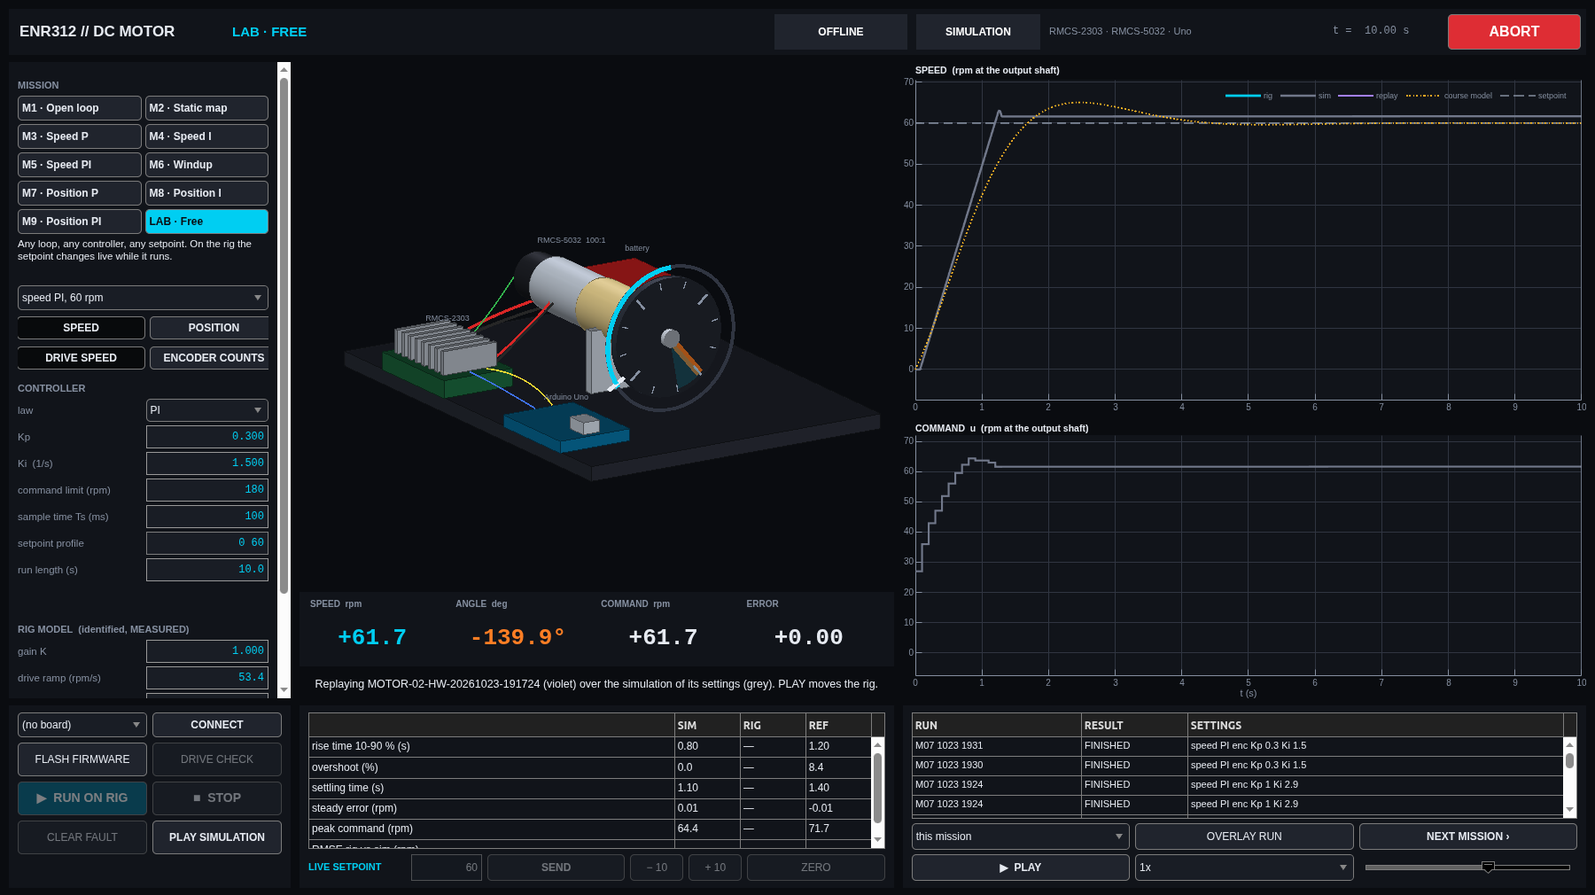
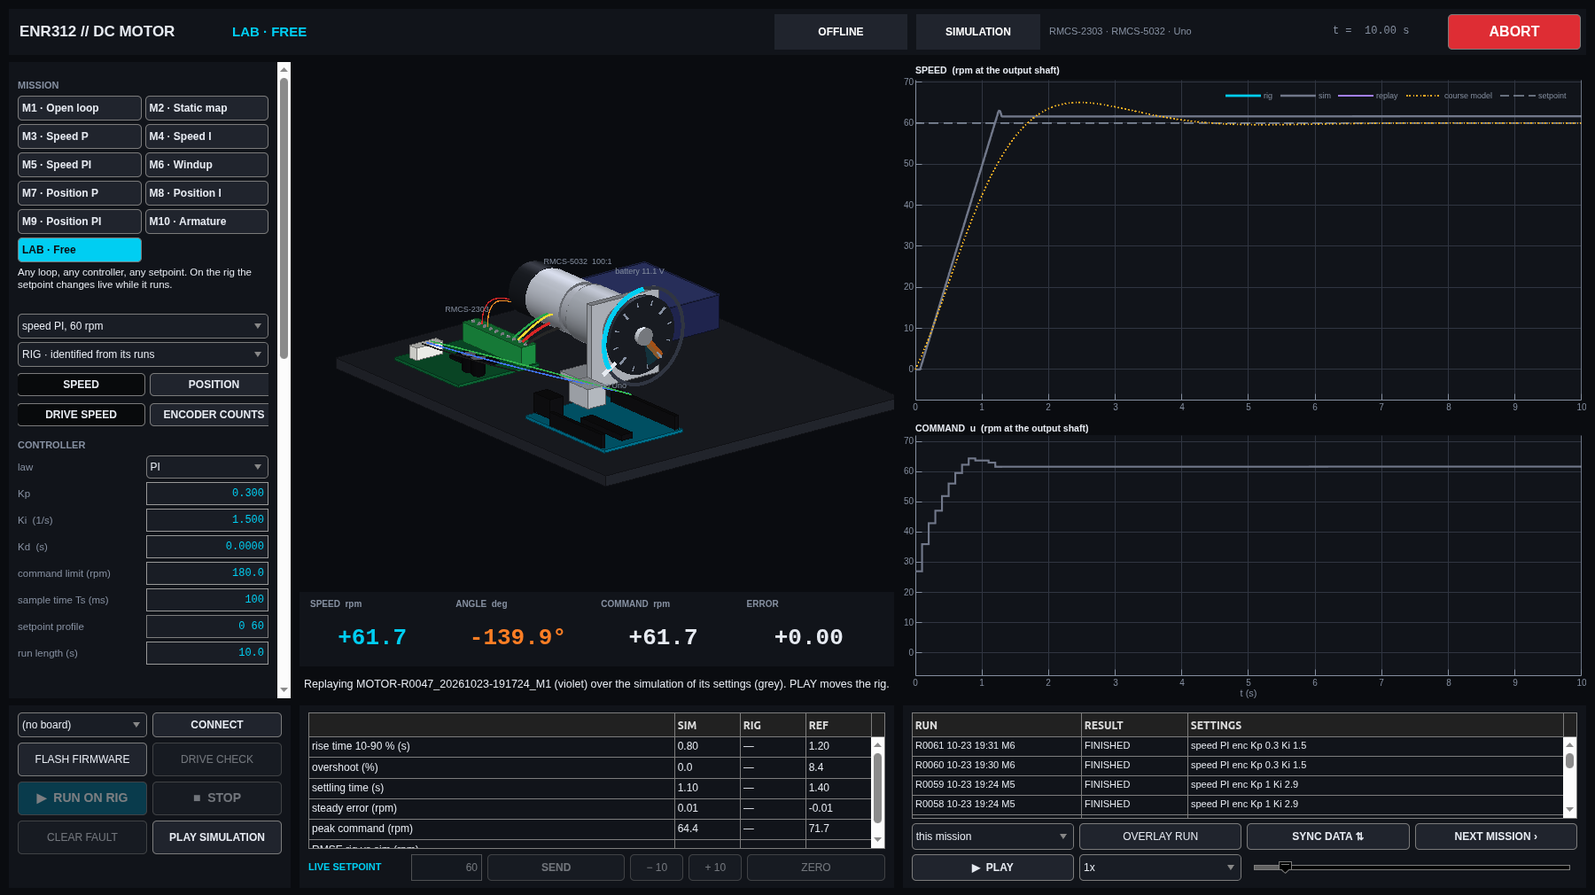
docs: three-rig front page, temperature and water guides, live-session checklist
The README shows one picture per apparatus and the motor's rig findings; the
guides describe each screen, physics panel and mission; the checklist walks
through a live session at each bench, from the doctor to SYNC DATA. The motor
session report is regenerated with the register's run ids; screenshots are
retaken from the current apps.

diff --git a/README.md b/README.md
@@ -1,134 +1,63 @@
-# ENR312 control lab: a DC motor under real feedback
+# ENR312 control lab: three rigs under real feedback
 
 [![CI](https://github.com/Samarth030312/enr312-lab/actions/workflows/ci.yml/badge.svg)](https://github.com/Samarth030312/enr312-lab/actions/workflows/ci.yml)
 ![Board](https://img.shields.io/badge/board-Arduino%20Uno-00979D)
-![Drive](https://img.shields.io/badge/drive-RMCS--2303%20(Modbus)-555)
 ![MATLAB](https://img.shields.io/badge/MATLAB-R2023b%2B%2C%20base-orange)
 ![Platforms](https://img.shields.io/badge/runs%20on-Windows%20%C2%B7%20macOS%20%C2%B7%20Linux-blue)
 ![License](https://img.shields.io/badge/license-MIT-green)
 
-A geared DC motor sits behind a servo drive that already runs its own speed loop. An Arduino
-talks to that drive ten times a second over a slow serial bus and closes a second loop around
-it: open loop, P, I and PI, on speed and on angle. This repository asks what each of those
-controllers really does on that rig, and answers with the rig.
+A DC motor behind a servo drive, a bulb heating a box, and a tank filled by a pump. Each
+has an Arduino closing the loop and a MATLAB mission control that simulates it from its
+own physics, runs it on the rig, records every run and replays it.
 
-It contains:
+| DC motor · `enr312_motor` | Temperature · `enr312_temp` | Water level · `enr312_water` |
+|:---:|:---:|:---:|
+| [![motor](docs/guide/img/m5_speed_pi_rig.png)](docs/guide/README.md) | [![temperature](docs/guide/img/t8_saturation.png)](docs/guide/TEMPERATURE.md) | [![water](docs/guide/img/w5_valve_pi.png)](docs/guide/WATER.md) |
+| A rig run (violet) over the identified model's prediction (grey): the handout's PI design overshoots 29 %, the model said 26 % | The bulb limited to 40 %: a plain integrator winds up and overshoots 5 °C | The outlet valve opens at 600 s: PI holds 50 % |
 
-- the Arduino firmware, tested on the PC against an emulated drive before it touched the motor;
-- a model of the rig **identified from its own steps**, not from a datasheet;
-- **`enr312_motor`**, a MATLAB mission control where every experiment of the ENR312 MOTOR
-  handout is simulated, run on the rig, recorded and replayed in one window;
-- every rig run, raw, with the reports that analyse them.
+## Start
 
-<p align="center">
-  <img src="docs/guide/img/m5_speed_pi_rig.png" width="900"
-       alt="The enr312_motor app on mission M5, speed PI: a 3-D view of the motor rig in the centre, the measured speed of a rig run in violet over the simulation in grey on the right, and a table comparing simulation, rig and the course model.">
-  <br><sub>The handout's PI design (Kp 1.0, Ki 2.9) on the rig, in violet, over the identified
-  model's prediction of the same run, in grey. The rig overshoots 29 %, the model said 26 %,
-  the textbook 5 %.</sub>
-</p>
-
-## What we found
-
-- **The actuator is a near-perfect speed source.** The drive closes its own loop, so the
-  steady speed follows the command with slope 0.997 and **no dead zone** down to 2 rpm, in
-  both directions (S3-3).
-- **A step is a ramp, not a lag.** The drive limits acceleration to 53 rpm/s; a model with
-  gain 1, that ramp and the 70 ms Modbus latency, fitted on four open-loop runs, predicts
-  closed-loop runs it never saw within a few rpm (S3-4, S3-7).
-- **The textbook PI design limit-cycles.** Designed for ζ 0.7 without the delay, it overshoots
-  29 % instead of 5 % and then oscillates ±6.7 rpm; the identified model predicts both (S3-10).
-- **Anti-windup is worth 6 seconds.** With the command saturated for 6 s, the firmware's
-  clamping brings the speed back to the new setpoint in 0.5 s; a plain integrator would not be
-  back before the run ends (S3-12).
-- **P alone positions to two encoder counts.** 10° moves end within 0.11-0.17° for Kp 0.1 to
-  1.0: the drive leaves no dead zone to stop short in (S3-5).
-- **The guard works, and found something.** The firmware's runaway guard cut motor power in
-  4 of 38 runs; three of them share a pattern (a full-speed reverse start), written down with
-  the evidence and a proposed fix in the [session report](results/reports/dc_motor/2026-10-23/REPORT.md#safety-events).
-
-## Start here
-
-| I want to … | Go to |
-|---|---|
-| set it up on my computer (Windows, macOS, Linux) | [install: one line per system](install/README.md) |
-| learn the app and do the experiments | [the mission-control guide](docs/guide/README.md) |
-| answer the ENR312 MOTOR questions | [every task and question, mapped to its run](docs/experiments/dc_motor/COURSE_QUESTIONS.md) |
-| see the rig results | [session 2026-10-23](results/reports/dc_motor/2026-10-23/REPORT.md) · [session 2026-10-11](docs/experiments/dc_motor/HW-SESSION-20261011-1314_FINDINGS.md) |
-| wire the rig | [DC motor wiring](docs/wiring/DC_MOTOR_WIRING.md) and the [safety checklist](docs/safety/EXPERIMENT_CHECKLIST.md) |
-| understand the drive and the motor | [hardware reference](docs/knowledge-base/HARDWARE_REFERENCE.md) · [control theory](docs/knowledge-base/CONTROL_THEORY.md) |
-| see how the software fits | [MATLAB architecture](docs/architecture/MATLAB_ARCHITECTURE.md) · [serial protocol](docs/architecture/SERIAL_PROTOCOL.md) |
-| see the sibling project | [rotary inverted pendulum](https://github.com/Samarth030312/enr312-rotary-inverted-pendulum) |
+New computer: one line from [install/](install/README.md) (Windows cmd or PowerShell, macOS, Linux).
+Then, in MATLAB, from the repository's `matlab` folder:
 
 ```matlab
-% MATLAB R2023b or newer, from the repository's matlab folder
-enr312_start        % checks the computer, installs the Arduino toolchain once, opens enr312_motor
-enr312_doctor       % what is wrong with this computer, and how to fix it
+enr312_start               % DC motor          enr312_start temperature   enr312_start water
+enr312_doctor              % what is wrong with this computer, and the fix
 ```
 
-New computer: one line in a terminal, from [install/](install/README.md):
+Each app runs without hardware. Plug in the Uno and it offers to flash the firmware and connect.
 
-```bash
-curl -fsSL https://raw.githubusercontent.com/Samarth030312/enr312-lab/main/install/macos/install.sh | bash     # macOS
-curl -fsSL https://raw.githubusercontent.com/Samarth030312/enr312-lab/main/install/linux/install.sh | bash     # Linux
-```
-```bat
-powershell -NoProfile -Command "[Net.ServicePointManager]::SecurityProtocol='Tls12'; irm https://raw.githubusercontent.com/Samarth030312/enr312-lab/main/install/windows/install.ps1 | iex"
-```
+## What the rigs showed
 
-## How it fits together
+DC motor, 61 recorded runs ([report 2026-10-23](results/reports/dc_motor/2026-10-23/REPORT.md)):
 
-```mermaid
-flowchart LR
-    subgraph PC["PC: MATLAB"]
-        APP["enr312_motor<br/>mission control"]
-        SIM["identified rig model<br/>+ the Arduino's loop"]
-    end
-    subgraph RIG["rig"]
-        UNO["Arduino Uno<br/>P / I / PI at 10 Hz"]
-        DRV["RMCS-2303<br/>own speed loop"]
-        MOT["RMCS-5032<br/>100:1, encoder"]
-    end
-    EMU["firmware on the PC<br/>+ emulated drive"]
-    APP --> SIM
-    APP <-->|"USB serial, protocol v1"| UNO
-    APP <-->|"the same protocol (tests)"| EMU
-    UNO <-->|"Modbus ASCII, 9600 baud"| DRV
-    DRV --> MOT
-    MOT -->|"encoder"| DRV
-    APP --> DATA["data/raw<br/>every run, read-only"]
-```
+- The drive makes the motor a near-perfect speed source: slope 0.997, no dead zone down to 2 rpm.
+- A step is the drive's 53 rpm/s ramp, not a lag. A model with that ramp and the 70 ms Modbus
+  latency predicts closed-loop runs it never saw within a few rpm.
+- The textbook ζ 0.7 PI design overshoots 29 % and limit-cycles ±6.7 rpm; clamping anti-windup
+  recovers in 0.5 s; P alone positions to two encoder counts.
 
-The controller law exists once (`pidStep`): the firmware runs it, the simulation runs it, and
-the firmware also runs on the PC against an emulated drive, behind the real serial protocol,
-for the end-to-end test.
+Temperature and water level: firmware and apps tested end to end against emulated hardware;
+first rig sessions to come. Their physics panels take your bulb, box, tank and pump values.
 
-## Status
+## Where things are
 
-- **DC motor:** the course experiments S3-2 to S3-12 ran on the rig on 2026-10-23
-  (38 runs) and are analysed; open: the runaway stop at the start of one run pair.
-- **Temperature** (DHT11, bulb, SSR) and **water level** (HC-SR04, pump, relay): firmware tested
-  on the PC, simulations and course answers done; not yet on hardware.
-- **Pneumatics:** Festo FluidSIM, [plan](pneumatic/README.md).
-- **Tested on:** the rig with Ubuntu 22.04. Windows 10/11 and macOS (Intel and Apple silicon):
-  the installer, the firmware build and the MATLAB tests run in [CI](.github/workflows/ci.yml);
-  a rig session from those systems has not been recorded yet.
-
-## Repository layout
+| | |
+|---|---|
+| guides | [motor](docs/guide/README.md) · [temperature](docs/guide/TEMPERATURE.md) · [water](docs/guide/WATER.md) · [live session checklist](docs/LIVE_SESSION_CHECKLIST.md) |
+| course questions | [MOTOR](docs/experiments/dc_motor/COURSE_QUESTIONS.md) · [TEMP](docs/experiments/temperature/COURSE_QUESTIONS.md) · [WATER](docs/experiments/water_level/COURSE_QUESTIONS.md) |
+| every rig run | [`data/RUN_REGISTER.csv`](data/RUN_REGISTER.csv): `MOTOR-R0061_20261023-193103_M6` = apparatus, run number, time, mission |
+| wiring and safety | [motor](docs/wiring/DC_MOTOR_WIRING.md) · [temperature](docs/wiring/TEMPERATURE_WIRING.md) · [water](docs/wiring/WATER_LEVEL_WIRING.md) · [checklist](docs/safety/EXPERIMENT_CHECKLIST.md) |
+| software | [architecture](docs/architecture/MATLAB_ARCHITECTURE.md) · [serial protocol](docs/architecture/SERIAL_PROTOCOL.md) · [changelog](CHANGELOG.md) |
+| sibling project | [rotary inverted pendulum](https://github.com/Samarth030312/enr312-rotary-inverted-pendulum) |
 
 ```
-install/        one-line set-up for Windows, macOS, Linux
-dc_motor/       motor firmware and its PC tests        temperature/, water_level/: the same for those rigs
-matlab/         enr312_start, enr312_doctor, the apps, the models, analysis scripts, tests
-data/           every rig run, raw and read-only, with metadata
-results/        session reports, figures, simulation evidence
-docs/           guide, course answers, wiring, safety, hardware reference, architecture
-scripts/        build and validation helpers (shell), report tools
+install/   one-line set-up        dc_motor/ temperature/ water_level/   firmware and its PC tests
+matlab/    apps, models, tests    data/    every rig run, read-only     results/   reports, figures
 ```
 
 ## License
 
-MIT for the original work ([`LICENSE`](LICENSE)). Arduino libraries are installed from their
-sources at pinned versions, not redistributed ([`THIRD_PARTY.md`](THIRD_PARTY.md)). Course
-handouts and the drive and motor manuals are cited, not redistributed
-([`SOURCE_REGISTER.csv`](docs/knowledge-base/SOURCE_REGISTER.csv)).
+MIT ([`LICENSE`](LICENSE)). Arduino libraries are installed at pinned versions, not
+redistributed ([`THIRD_PARTY.md`](THIRD_PARTY.md)). Course handouts and manuals are cited, not
+redistributed.

diff --git a/docs/guide/TEMPERATURE.md b/docs/guide/TEMPERATURE.md
@@ -1,0 +1,57 @@
+# Temperature mission control: `enr312_temp`
+
+```matlab
+enr312_start temperature        % from the repository's matlab folder
+```
+
+![enr312_temp](img/t2_onoff.png)
+
+## The screen
+
+The same layout as the motor app. **Left:** the mission, its presets, the controller, a
+disturbance, and the **physics panel** (bulb · enclosure · sensor). **Centre:** the rig in 3-D:
+the bulb glows with the power it receives, the heated zone's outline warms from blue to red,
+the SSR's LED shows its input, and the LCD shows the reading the Arduino displays. **Right:**
+the temperature the DHT11 reports (grey: simulation, cyan: rig, violet: replay; dotted: the true
+zone temperature, which the sensor sees late and in 1 °C steps) and the heater power.
+**Bottom:** rig controls, the SIM / RIG / REF table, recorded runs.
+
+## The physics panel
+
+Type what is on your bench and the model follows:
+
+| You give | The model uses |
+|---|---|
+| bulb rating, its rated voltage, the supply voltage, heat fraction η | electrical power P = W (V/V_rated)^1.6 (a filament's resistance rises with temperature); heat into the zone η P |
+| zone length, width, height, wall loss U | loss conductance G = U·A, R_th = 1/G |
+| structure mass and its specific heat | heat capacity C = air + structure |
+| room temperature, bulb-to-sensor delay θ, sensor lag | the dead time and the DHT11's own lag |
+
+Derived and shown live: K (the rise at full power), τ = R_th·C, θ, the full-power temperature and
+the transfer function T(s)/u(s). Values marked ASSUMED in the code are placeholders until the
+bench is measured; mission T1 measures K, τ and θ.
+
+## Missions
+
+| | Question |
+|---|---|
+| T1 · Heating curve | How fast and how far does the zone heat with the bulb fully on, and does it cool at the same rate? |
+| T2 · On-off | What does the temperature do at 35, 45 and 55 °C, and how often does the bulb switch? |
+| T3 · Hysteresis | What happens to the band and to the switching as the hysteresis grows? |
+| T4 · Moving average | How do N = 10 and N = 500 differ, given that the DHT11 updates once a second? |
+| T5 · P control | What do Kp = 1, 2, 50, 100, 500 do to the error and to the bulb? |
+| T6 · PI and PID | What do the integral and derivative terms add? |
+| T7 · Disturbance | The room cools by 5 °C at 600 s: who recovers? |
+| T8 · Saturation | With the heater limited to 40 %, what does the integrator do? |
+| LAB · Free | Anything; on the rig the setpoint changes live. |
+
+The table scores SIM, RIG and REF (theory from the physics: K, τ, θ, P's offset, on-off ripple)
+with the same definitions. **OPEN IN SIMULINK** builds `enr312_temperature.slx` with the
+current settings. On the rig, the firmware runs ON-OFF, HYST, MA, P, TPROP, STEP and PI; PID
+and open loop are simulation only.
+
+## On the rig
+
+Wiring and mains safety first: [TEMPERATURE_WIRING.md](../wiring/TEMPERATURE_WIRING.md). Set the
+LCD type (parallel or I2C) under CONTROLLER before FLASH FIRMWARE. The firmware switches the
+bulb off if MATLAB is silent for 3 s and latches it off at its 70 °C cut-off.

diff --git a/docs/guide/WATER.md b/docs/guide/WATER.md
@@ -1,0 +1,52 @@
+# Water-level mission control: `enr312_water`
+
+```matlab
+enr312_start water              % from the repository's matlab folder
+```
+
+![enr312_water](img/w2_onoff.png)
+
+## The screen
+
+The same layout as the motor app. **Centre:** the tank in 3-D: the water column follows the
+level, the inflow and outflow streams thicken with the flow, the HC-SR04's ping reaches the
+surface, the outlet valve's handle turns with its opening, and Lmin (green), Lmax (red) and the
+setpoint (white) are marked on the tank. **Right:** the level the sensor reports (dotted: the
+true level) and the pump command. The live numbers include the net flow into the tank.
+
+## The physics panel
+
+| You give | The model uses |
+|---|---|
+| tank length, width, height | A dh/dt = q_in − q_out, 100 % = the tank height |
+| outlet bore, Cd, valve opening | q_out = k √h, k = Cd · a · √(2g) (Torricelli: the reason the tank is nonlinear) |
+| pump flow at zero head, shut-off head, lift, dead zone, delay | q_in from the pump command, falling with the head |
+| sensor height, air temperature | the HC-SR04's distance → level (speed of sound with temperature) |
+
+Derived and shown live: the level a full pump can hold, the linearised gain and time constant
+at half height, the time to fill and the volume. **Outflow** can be a gravity outlet or a
+constant drain (inspect your rig); the **firmware guards** (overflow above 92 %, dry run) can be
+switched off in simulation to see what they prevent.
+
+## Missions
+
+| | Question |
+|---|---|
+| W1 · Filling | Where does the level stop for a fixed pump command, and why there? |
+| W2 · On-off | How long are the fill and drain times, how often does the pump start, and what if the band is halved? |
+| W3 · P control | Why does P leave an offset? |
+| W4 · PI control | How does PI remove it? |
+| W5 · Valve disturbance | The outlet opens to 130 % at 600 s: who holds the level? |
+| W6 · Limits | A setpoint near the rim, an overflow, a pump too small. |
+| W7 · Windup | The pump saturates on the way to 85 %: clamping against a plain integrator. |
+| LAB · Free | Anything; on the rig the setpoint changes live (P / PI). |
+
+**OPEN IN SIMULINK** builds `enr312_water_level.slx` (Relay block for on-off, PI, open loop,
+valve step) with the current settings. On the rig: ON-OFF through the relay, P and PI with the
+PWM (MOSFET) wiring; the app sends the tank geometry and air temperature ($CAL) before each run.
+
+## On the rig
+
+Wiring: [WATER_LEVEL_WIRING.md](../wiring/WATER_LEVEL_WIRING.md). Measure the tank and the sensor
+height first and type them into the physics panel: they set both the model and the firmware's
+level scale.

diff --git a/CHANGELOG.md b/CHANGELOG.md
@@ -1,5 +1,28 @@
 # Changelog
 
+## 2026-10-24: all three rigs, physics from the real parts, one run register
+
+* **Temperature (`enr312_temp`) and water level (`enr312_water`)** mission controls, on a shared
+  engine (`enr312.ui.missionControl`): missions for the TEMP and WATER handouts and Assignment 3,
+  a 3-D scene each (glowing bulb, DHT11, SSR, LCD; tank with water column, pump, flows, HC-SR04,
+  valve), SIM / RIG / REF tables with theory from the physics, OPEN IN SIMULINK, rig runs saved
+  and registered, end-to-end tests against real-time firmware emulators.
+* **Physics from what is on the bench:** `enr312.motor.physics` (datasheet → R, Kt, b, τe, τm,
+  ω(s)/V(s); free speed 168 rpm at 11.2 V, as measured), `enr312.temperature.physics` (bulb W and V,
+  box, wall loss, sensor → K, τ, θ), `enr312.level.physics` (tank, outlet bore and Cd, valve, pump
+  curve → Torricelli k, steady levels, linearised K, τ).
+* **DC motor:** the 3-D rig to the RMCS-5032 drawing, the RMCS-2303 board and the Uno outline;
+  PLANT choice (identified rig, drive physics, bare armature), PID, load-torque step, inertia
+  factor, armature current, battery runtime, mission M10.
+* **Simulation:** temperature PID, open loop, power limit with or without anti-windup, ambient
+  step; water open loop, pump curve, spill, guards switchable; Simulink models for both extended
+  to match (temperature PI/PID, saturation, ambient step; water open loop).
+* **Run register:** every rig run of any apparatus is `<APP>-R<nnnn>_<time>_<mission>` in
+  `data/RUN_REGISTER.csv`, with rig, firmware, port, settings and result; stopped and aborted runs
+  are kept; the 61 motor runs were renamed (old ids still resolve). **SYNC DATA** pushes new runs.
+* `enr312.ident.fitThermal`: K, τ, θ from heating and cooling together.
+* Fix: frames of a previous run or idle frames arriving after RUN no longer end a new run.
+
 ## 2026-10-23: mission control, every operating system, the course on the rig
 
 **DC-motor mission control (`enr312_motor`)** replaces MotorControlApp.

diff --git a/docs/LIVE_SESSION_CHECKLIST.md b/docs/LIVE_SESSION_CHECKLIST.md
@@ -1,0 +1,32 @@
+# Live session checklist (all three rigs)
+
+## Before the session (any computer)
+
+1. `git pull` (or the install line again), then in MATLAB: `enr312_doctor`. Every FAIL has its fix.
+2. `enr312_doctor fix` once per computer: installs the Arduino toolchain (about 60 MB).
+3. Open each app once without hardware (`enr312_start`, `enr312_start temperature`,
+   `enr312_start water`) and press PLAY SIMULATION on one mission.
+
+## At each bench
+
+| Step | DC motor | Temperature | Water level |
+|---|---|---|---|
+| Safety | battery off while wiring; shaft free | **mains unplugged while wiring**, enclosure closed | tank on a tray, electronics above the water line |
+| Wiring | [motor](wiring/DC_MOTOR_WIRING.md) | [temperature](wiring/TEMPERATURE_WIRING.md) | [water](wiring/WATER_LEVEL_WIRING.md) |
+| Physics panel | battery voltage (measure it) | bulb W and V, box size, room temperature | tank L×W×H, sensor height, outlet bore, pump flow |
+| Plug in the Uno | **Flash + connect** (first time on a board), else Connect | the same; choose the LCD type first | the same |
+| Check | DRIVE CHECK: LPR 13, loop ~74.5 ms | SENSOR CHECK: a sensible reading | SENSOR CHECK: the level matches a ruler |
+| First run | M1, open loop, small speed | T1 heating curve (or T2 on-off at 35 °C) | W2 on-off 30-80 % |
+| Stop | ABORT / Esc / Space / STOP | the same (bulb off) | the same (pump off) |
+
+## During
+
+- Every run is saved and numbered (`data/RUN_REGISTER.csv`), including stopped and aborted runs.
+- If the state chip turns red (FAULT), read the message, fix the cause, press CLEAR FAULT.
+- RUNS → pick a run → OVERLAY RUN compares it with the simulation of its own settings.
+
+## After
+
+1. **SYNC DATA** in each app (or `git add data results && git commit && git push`): the runs go
+   to GitHub. The first push on a computer asks you to sign in; the owner must have added you.
+2. Reports: `motor_session_report('YYYY-MM-DD')` for the motor; overlay runs in the other apps.

diff --git a/results/reports/dc_motor/2026-10-23/REPORT.md b/results/reports/dc_motor/2026-10-23/REPORT.md
@@ -79,10 +79,10 @@ The firmware cut motor power 4 time(s) in the recorded runs:
 
 | run | experiment | at t (s) | command (rpm) | measured (rpm) | reason |
 |---|---|---:|---:|---:|---|
-| MOTOR-02-HW-20261023-191737 | S3-2/S3-4 run 2 | 0.2 | 0.0 | -168.2 | runaway: too fast - check encoder and LPR |
-| MOTOR-02-HW-20261023-191408 | S3-3 run 2 | 38.1 | 0.0 | -147.3 | runaway: too fast - check encoder and LPR |
-| MOTOR-02-HW-20261023-190640 | S3-2/S3-4 run 2 | 0.2 | 0.0 | -166.5 | runaway: too fast - check encoder and LPR |
-| MOTOR-02-HW-20261023-190403 | S3-2/S3-4 run 2 | 0.2 | 0.0 | -165.9 | runaway: too fast - check encoder and LPR |
+| MOTOR-R0048_20261023-191737_M1 | S3-2/S3-4 run 2 | 0.2 | 0.0 | -168.2 | runaway: too fast - check encoder and LPR |
+| MOTOR-R0046_20261023-191408_M2 | S3-3 run 2 | 38.1 | 0.0 | -147.3 | runaway: too fast - check encoder and LPR |
+| MOTOR-R0040_20261023-190640_M1 | S3-2/S3-4 run 2 | 0.2 | 0.0 | -166.5 | runaway: too fast - check encoder and LPR |
+| MOTOR-R0035_20261023-190403_M1 | S3-2/S3-4 run 2 | 0.2 | 0.0 | -165.9 | runaway: too fast - check encoder and LPR |
 
 **Observation (cause UNVERIFIED).** The three stops at t = 0.2 s all came at the start of the encoder-feedback run that follows a drive-register open-loop run ending at 0 rpm. The motor really turned backwards at full speed (the encoder count fell by ~1445 counts per 100 ms, about -167 rpm) while 0 rpm was commanded. Two other facts from the session log: the STOP before each of these runs took 1.5 s to be acknowledged instead of the usual 0.35 s (the drive did not answer the first stop write at once), and a similar full-speed reverse start happened at 18:56 with drive feedback (log `hw_session_20261023-185416.log`). The runaway guard caught every case within 0.2 s.
 

diff --git a/docs/guide/README.md b/docs/guide/README.md
@@ -96,6 +96,28 @@ STOP, CLEAR FAULT, PLAY SIMULATION). Centre: the SIM / RIG / REF table and the L
 row, used while a rig run is going. Right: every recorded run of this mission (or of all), with
 OVERLAY RUN, NEXT MISSION, PLAY and a scrub bar.
 
+### Plants and the datasheet panel
+
+**PLANT** chooses what is simulated:
+
+- **RIG · identified:** the measured black box (gain, drive ramp, Modbus latency), the default.
+- **RIG · drive + motor physics:** the drive's speed loop around the motor equations.
+- **MOTOR · armature voltage:** the bare motor driven by a voltage, without the drive. This is
+  the textbook motor: the command is in volts, the armature current gets its own plot, and the
+  load torque and inertia factor under DISTURBANCE act on it (mission M10).
+
+The **MOTOR · DRIVE · BATTERY** panel takes the datasheet values (rated voltage, no-load speed
+and current, stall current, gear ratio, J, L, drive current limit, battery voltage and capacity)
+and derives R, Kt = Ke, b, the electrical and mechanical time constants, the free speed and
+ω(s)/V(s), shown live under the fields. **OPEN IN SIMULINK** builds the Simulink model with the
+current settings.
+
+### Runs and data
+
+Every rig run gets a number in `data/RUN_REGISTER.csv`, e.g. `MOTOR-R0062_20261024-101500_M5`
+(apparatus, run number, time, mission), including runs the firmware stopped or you aborted.
+**SYNC DATA** commits the new runs, logs and reports and pushes them to GitHub.
+
 ## 4. Your first simulation: M1
 
 Click **M1 · Open loop** and press **PLAY SIMULATION**.
